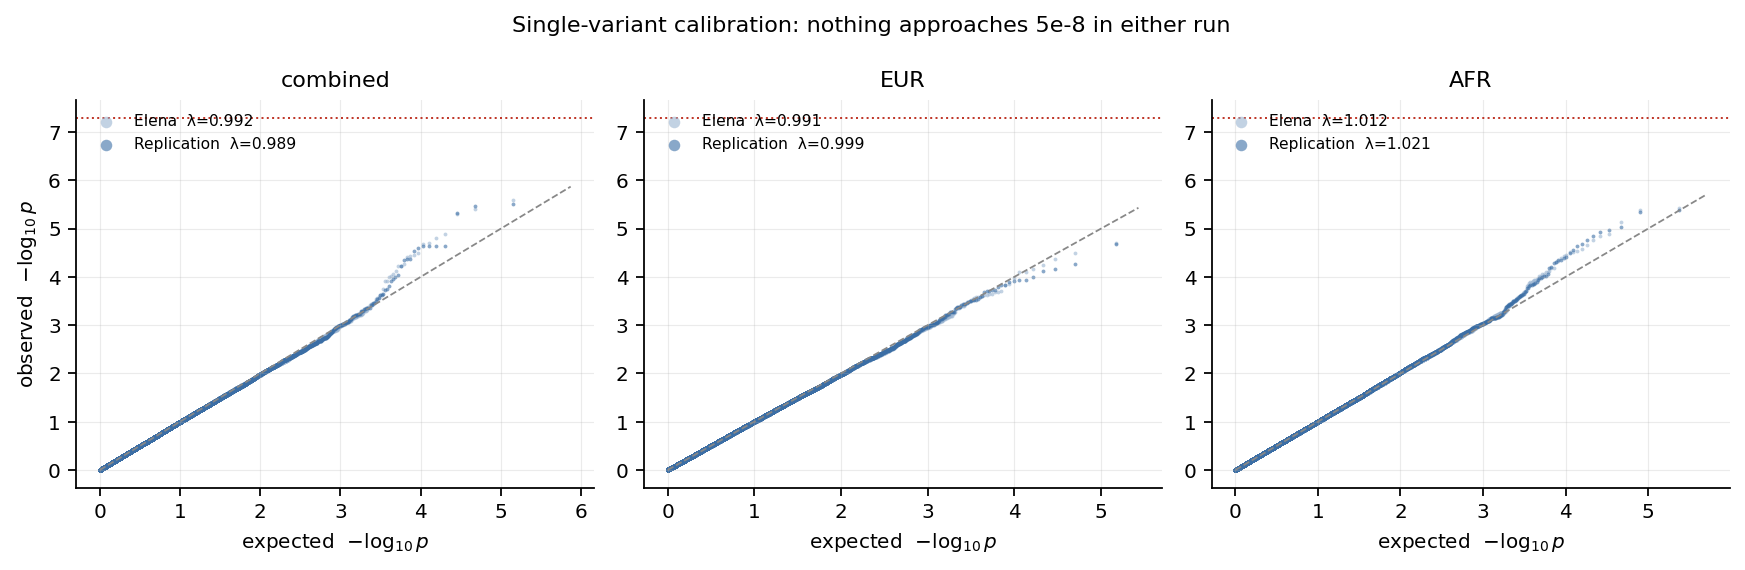
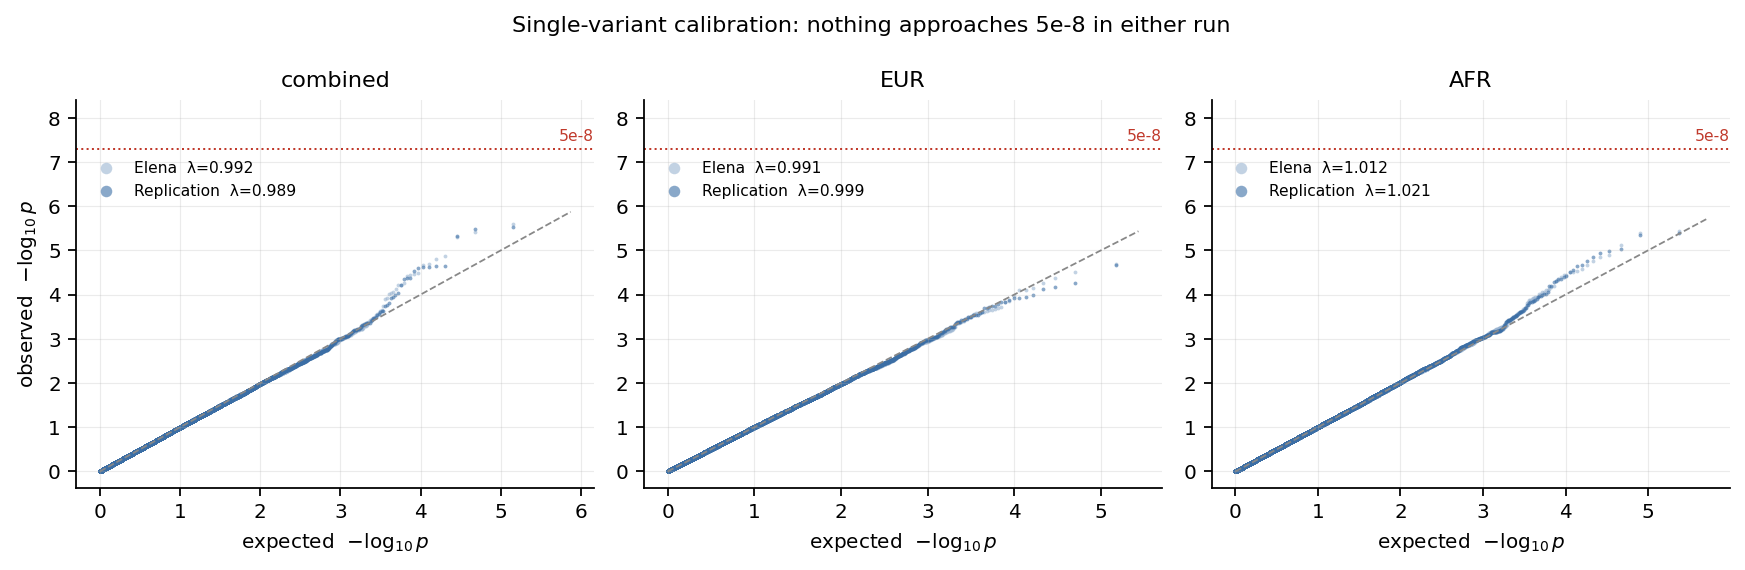
Phase 5 in Portuguese, and two figure fixes
andre_notes/phase_05_analise_pt.md: what lambda is and why it needs no
defence in this arm (single-variant tests are what it was built for,
unlike the burden arm's SKAT-O), why both Pearson and Spearman are
reported (with nothing significant, r is cheap -- 70,000 p-values of
noise agree easily; rank agreement is the stricter test), the results,
the MHC limitation of ours, the poster audit, and each figure explained.

Records both of my errors in this phase. The serious one: the audit
script printed "absent from the release" for all three poster variants
while the stage trail in the same output said "present". with_suffix on
a dotted filename, falling through to an error branch that the print
rendered as absence -- a bug that does not crash, it lies confidently,
in a document that accuses another document of being wrong. The smaller
one: the first poster_variants.png clipped its axis at 0.98 and hid that
AFR tests down to 0.9534, which would have had me claim "everything
above 0.99" when the truth is "everything above 0.95".

Figures: separated the QQ legend from the 5e-8 line and labelled the
line directly.

diff --git a/analysis/exwas_elena_replication/phase_5/scripts/03_figures.py b/analysis/exwas_elena_replication/phase_5/scripts/03_figures.py
@@ -72,12 +72,17 @@ def fig_qq():
                        label=f"{label}  λ={lam(p):.3f}")
         hi = max(ax.get_xlim()[1], ax.get_ylim()[1])
         ax.plot([0, hi], [0, hi], color=GREY, lw=0.8, ls="--")
-        ax.axhline(-np.log10(PRIMARY), color=RED, lw=0.9, ls=":")
+        bar = -np.log10(PRIMARY)
+        ax.axhline(bar, color=RED, lw=0.9, ls=":")
+        ax.set_ylim(top=bar + 1.1)
+        ax.text(ax.get_xlim()[1], bar + 0.12, "5e-8", ha="right", va="bottom",
+                fontsize=7, color=RED)
         ax.set_title(c)
         ax.set_xlabel("expected  $-\\log_{10}p$")
         if c == "combined":
             ax.set_ylabel("observed  $-\\log_{10}p$")
-        ax.legend(loc="upper left", fontsize=7, markerscale=3)
+        ax.legend(loc="upper left", fontsize=7, markerscale=3,
+                  bbox_to_anchor=(0.0, 0.88))
     fig.suptitle("Single-variant calibration: nothing approaches 5e-8 in either run",
                  fontsize=10)
     fig.tight_layout()

diff --git a/analysis/exwas_elena_replication/andre_notes/phase_05_analise_pt.md b/analysis/exwas_elena_replication/andre_notes/phase_05_analise_pt.md
@@ -1,0 +1,282 @@
+# Fase 5 — resultados, calibração e a auditoria do pôster · análise
+
+Documento em português, linguagem de leigo, para eu conseguir explicar em reunião.
+Braço: **ExWAS de variante comum, fenótipo amplo (replicação)**.
+Rodado em 2026-10-09.
+
+---
+
+## O que esta fase faz
+
+Três coisas:
+
+1. **Calibração** — o teste está bem comportado, ou está inflado?
+2. **Concordância** — nossos números batem com os que a Elena entregou?
+3. **Auditoria do pôster** — por que o pôster diz que há seis resultados significativos
+   e nenhum dos dois conjuntos de resultados tem algum?
+
+A premissa **P9** (anotar com VEP tudo que passar uma barra) foi registrada antes do
+step 2 e **não foi acionada**, porque nada passou. Fica escrito que a etapa existia e
+não teve o que anotar — não que ela foi abandonada no caminho.
+
+---
+
+## Conceito 1 — o que é λ (lambda)
+
+O fator de inflação genômica responde a uma pergunta simples: **se não houvesse
+associação nenhuma, os p-valores pareceriam com isso?**
+
+Se não há sinal, os p-valores devem ser uniformes entre 0 e 1 — tantos perto de 0,5
+quanto perto de 0,9. λ compara o p-valor **mediano** observado com o mediano esperado
+nessa situação.
+
+- **λ = 1** → exatamente o esperado sob nenhuma associação
+- **λ > 1** → p-valores pequenos demais no geral. Sinal de estrutura populacional não
+  corrigida, viés de lote, ou algum problema sistemático
+- **λ < 1** → conservador demais
+
+λ **não** detecta achado verdadeiro. Um gene real afeta um punhado de variantes, não
+a mediana de 70 mil. λ mede viés de fundo, não descoberta.
+
+### Por que λ é legítimo aqui e precisava de defesa no burden
+
+λ foi inventado para teste de variante única, onde a estatística sob a hipótese nula é
+um qui-quadrado com 1 grau de liberdade. **É exatamente o que este braço produz.**
+
+No braço de burden, o p-valor vem do SKAT-O, cuja estatística não é essa. Lá eu
+precisei de um parágrafo de justificativa (o argumento é que o que se testa é se os
+p-valores são uniformes, e isso vale seja qual for o mecanismo que os gerou). Aqui não
+precisa de nada: é o caso de uso original.
+
+Detalhe técnico que mantivemos: uso o `qchisq(0.5, 1) = 0.4549364` exato, e não o
+`0.456` arredondado no `step10_1_QQplot.R` dela, que infla λ em 0,23%. Não muda
+conclusão nenhuma, mas é de graça acertar.
+
+---
+
+## Conceito 2 — por que reporto duas correlações
+
+Para comparar nossos p-valores com os dela eu uso duas medidas:
+
+| | o que mede |
+|---|---|
+| **Pearson (r)** | se os valores em si batem |
+| **Spearman (ρ)** | se a **ordem** bate — quem é o 1º, o 2º, o 100º |
+
+Por que os dois: quando **nada é significativo**, 70 mil dos 70 mil p-valores são
+ruído perto de zero. O Pearson olha essa massa toda e fica alto quase de graça — os
+dois lados concordam que "não há nada", e concordar sobre nada é fácil.
+
+O Spearman é mais duro. Ele pergunta se as duas rodadas põem as mesmas variantes nas
+mesmas posições do ranking, inclusive no meio da tabela, onde pequenas diferenças
+mudam a ordem. Se o ρ cair muito abaixo do r, é sinal de que a concordância era só da
+massa de ruído.
+
+Aqui os dois se sustentam, e é por isso que posso dizer que replicamos de verdade.
+
+---
+
+## O resultado: nada significativo, e isso bate com ela
+
+| coorte | menor p nossa | menor p dela | barra primária | barra secundária |
+|---|---:|---:|---:|---:|
+| combined | 3,02e-06 | 2,57e-06 | 5e-08 | 7,11e-07 |
+| EUR | 2,12e-05 | 1,99e-05 | 5e-08 | 6,71e-07 |
+| AFR | 4,11e-06 | 3,70e-06 | 5e-08 | 4,24e-07 |
+
+Nenhum dos dois chega a duas ordens de grandeza de `5e-8`. E a coluna `Significance`
+dos arquivos dela já diz **"Not significant"** em todos.
+
+### Calibração
+
+| coorte | λ nossa | λ dela |
+|---|---:|---:|
+| combined | 0,9893 | 0,9919 |
+| EUR | 0,9991 | 0,9907 |
+| AFR | 1,0207 | 1,0120 |
+
+Os dois bem calibrados. A afirmação do pôster de *"adequate statistical calibration and
+minimal evidence of systematic inflation"* **está correta e se reproduz.**
+
+### Concordância
+
+| coorte | dela | nossa | em comum | r | ρ |
+|---|---:|---:|---:|---:|---:|
+| combined | 70.429 | 70.366 | 70.333 (99,9%) | 0,989 | 0,978 |
+| EUR | 74.528 | 74.536 | 74.483 (99,9%) | 0,979 | 0,962 |
+| AFR | 117.943 | 117.953 | 117.723 (99,8%) | 0,990 | 0,981 |
+
+**Toda** discordância individual maior que uma unidade log está no MHC — 14 de 14 no
+EUR, 16 de 16 no AFR. Não "a maioria": todas.
+
+---
+
+## Um defeito nosso, achado aqui
+
+Separando λ por região em vez de olhar o genoma inteiro:
+
+| coorte | λ fora do MHC (dela / nossa) | λ dentro do MHC (dela / nossa) |
+|---|---|---|
+| combined | 0,990 / 0,989 | **1,145** / 1,041 |
+| EUR | 0,992 / 0,995 | 0,965 / **1,339** |
+| AFR | 1,012 / 1,020 | 0,998 / **1,092** |
+
+Fora do MHC somos indistinguíveis dela. Dentro, no EUR e no AFR, **nossos 4 e 3 PCs
+deixam inflação que os 9 e 10 dela não deixam.** O EUR é o caso claro: λ = 1,34 contra
+0,97 dela, em 1.032 variantes.
+
+### Por que isso acontece
+
+O MHC (cromossomo 6, 28,5 a 33,4 Mb) é a região de maior diversidade do genoma humano.
+Ela carrega os genes do sistema imune, e a composição dela varia muito mais entre
+ancestralidades do que o resto. É justamente onde a correção por estrutura populacional
+pesa mais.
+
+Nossos PCs foram escolhidos por scree plot olhando o genoma inteiro, e essa escolha
+continua defensável **para o genoma inteiro** — fora do MHC ela não custa nada. Mas na
+janela onde a estrutura é mais forte, os PCs extras dela estão fazendo trabalho real.
+
+### Isso muda alguma conclusão?
+
+Não. λ = 1,34 em 1.032 variantes não fabrica um achado em `5e-8`, e o menor p do EUR é
+`2,12e-05`. Mas registro porque é uma limitação **nossa**, encontrada olhando, e porque
+qualquer análise futura que se importe com o MHC não deve herdar 4 PCs sem reabrir a
+pergunta.
+
+Na coorte combinada a posição se inverte: a inflada é a dela, 1,14 contra nossos 1,04.
+
+---
+
+## A auditoria do pôster
+
+O script `02_poster_audit.py` faz quatro coisas, e a ordem importa:
+
+1. **lê as reivindicações direto do `.pptx`** — não redigitadas por mim
+2. **mede cada variante no release do PMBB** com plink2
+3. **rastreia** em que estágio do pipeline cada uma desaparece
+4. **recusa** escrever o relatório se alguma variante não puder ser medida
+
+Seis resultados reivindicados, três variantes únicas:
+
+| gene | variante | coorte | p no pôster |
+|---|---|---|---|
+| KNL1 | chr15:40611486:A:G | Combined | 3,51e-12 |
+| KNL1 | chr15:40611486:A:G | EUR | 7,21e-12 |
+| ZFPM1 | chr16:88533289:A:C | EUR | 2,46e-10 |
+| ZFPM1 | chr16:88533290:G:C | EUR | 2,52e-10 |
+| ZFPM1 | chr16:88533290:G:C | Combined | 4,54e-09 |
+| ZFPM1 | chr16:88533289:A:C | Combined | 6,18e-09 |
+
+Medido no release — **não no nosso pipeline nem no dela**:
+
+| variante | call rate | MAF | passa o QC do próprio pôster? |
+|---|---:|---:|---|
+| chr15:40611486:A:G | **0,2013** | 0,284 | não |
+| chr16:88533289:A:C | 0,9617 | 0,295 | não |
+| chr16:88533290:G:C | 0,9473 | 0,283 | não |
+
+O método do pôster diz: *"variants with a genotype call rate < 0.99 and a Minor Allele
+Frequency (MAF) < 0.01 were removed."* Nenhuma das três passa de 0,99.
+
+**Para comparar:** o call rate de tudo que este braço testou vai de 0,9534 a 1,0, com
+mediana 0,9999. A pior variante do pôster não está na cauda disso — está em outro
+regime.
+
+---
+
+## As figuras
+
+Todas em `figures/`, na mesma paleta do braço de burden para poderem conviver num
+documento só.
+
+### `qq.png` — calibração
+
+Eixo x: o p-valor que a gente esperaria se não houvesse associação nenhuma. Eixo y: o
+observado. Se não há sinal nem viés, os pontos seguem a diagonal.
+
+As duas rodadas estão sobrepostas e quase indistinguíveis — essa é a mensagem. A linha
+vermelha pontilhada é `5e-8`, e **nada chega perto dela** em nenhuma das duas.
+
+### `manhattan.png` — o exoma inteiro
+
+Cada ponto é uma variante, na ordem do genoma, com as cores alternando por cromossomo.
+Quanto mais alto, menor o p-valor.
+
+As duas linhas vermelhas são as barras: a contínua é `5e-8` (a do pôster), a tracejada
+é `0,05/n` (Bonferroni sobre os testes que realmente fizemos). **A faixa vazia entre os
+dados e as linhas é o resultado** — o ponto mais alto de qualquer coorte está bem
+abaixo das duas.
+
+### `concordance.png` — nós contra ela, variante por variante
+
+Eixo x: o −log10(p) dela. Eixo y: o nosso. Em cima da diagonal = concordância perfeita.
+
+Os pontos vermelhos são o MHC. Repare que **eles são os únicos que se espalham**, e que
+se espalham sistematicamente **para cima** — nós achamos mais sinal ali do que ela. É a
+mesma coisa que o λ por região mostrou, vista de outro jeito.
+
+### `poster_variants.png` — a figura que carrega o achado
+
+À esquerda, a distribuição de call rate de tudo que foi testado, em escala log, com a
+linha de 0,99. À direita, as três variantes do pôster, na mesma escala.
+
+A faixa sombreada à direita marca onde fica tudo que foi testado. As três barras do
+pôster estão fora dela, e a do `KNL1` está em 0,201.
+
+---
+
+## Dois erros meus nesta fase
+
+### O grave: uma falha de script virando afirmação falsa
+
+Na primeira rodada, o script de auditoria imprimiu **"absent from the release"** para as
+três variantes — e logo abaixo, no mesmo output, a trilha de estágios dizia
+**"present"**. Contradição dentro do próprio relatório.
+
+A causa: em Python, `Path("...exome.gl.chr15").with_suffix(".bim")` troca o **último**
+sufixo, que ali é `.chr15`, não `.gl`. Ele foi procurar um arquivo
+`...exome.gl.bim`, que não existe. O teste de existência falhou, o código caiu num ramo
+de erro — e meu `print` renderizava "não consegui medir" como "não existe".
+
+Isso é o pior tipo de bug: ele não quebra, ele **mente com confiança**. E ia mentir
+num documento que acusa outro documento de estar errado.
+
+Correções: o caminho é montado por concatenação de string; falha do plink2 agora é
+capturada e reportada; e o script **recusa escrever o relatório** se alguma variante
+não puder ser medida. Variante não medida nunca mais pode sair impressa como variante
+ausente.
+
+### O menor: a figura escondia a cauda
+
+A primeira versão de `poster_variants.png` cortava o eixo em 0,98, o que escondia o fato
+de que o AFR tem variantes testadas até 0,9534. Eu teria apresentado "tudo acima de
+0,99" quando o correto é "tudo acima de 0,95". O eixo agora vai até 0,95 e os mínimos
+de cada coorte estão escritos na legenda.
+
+---
+
+## O memo para a Nikki
+
+Está em `confluence/memo_poster_qc.md`. A ordem dele é deliberada:
+
+1. **Abre pela concordância.** r de 0,98 a 0,99, 99,9% das variantes em comum, λ a 0,01
+   de distância, e os arquivos dela já dizendo "Not significant". Assim a pergunta de QC
+   chega como problema compartilhado, não como desafio.
+2. **O número que destaca é medido no release**, com plink2 — independente dos dois
+   pipelines. Call em 20% dos participantes. Não há o que replicar ou contestar nisso.
+3. **Inclui a limitação nossa do MHC.** Isso é honesto, e também deixa claro que foi
+   auditoria de tudo, não caça.
+4. **Fecha com pergunta concreta** — qual conjunto de variantes gerou a tabela — oferece
+   a cronologia inocente como resposta provável, registra que eu sou coautor, e dá duas
+   opções em vez de exigência.
+
+---
+
+## Em aberto
+
+- **A pergunta para a Nikki.** É o único item que não é nosso para resolver.
+- **Os PCs no MHC.** Se alguma análise futura focar aquela região, 4 PCs não serve.
+  Não mexi agora porque mudaria o modelo nulo de todos os braços e nenhuma conclusão
+  depende disso.
+- **A P9 nunca foi acionada.** Se um dia algum braço produzir achado, o passo de
+  anotação existe e está pré-registrado.
